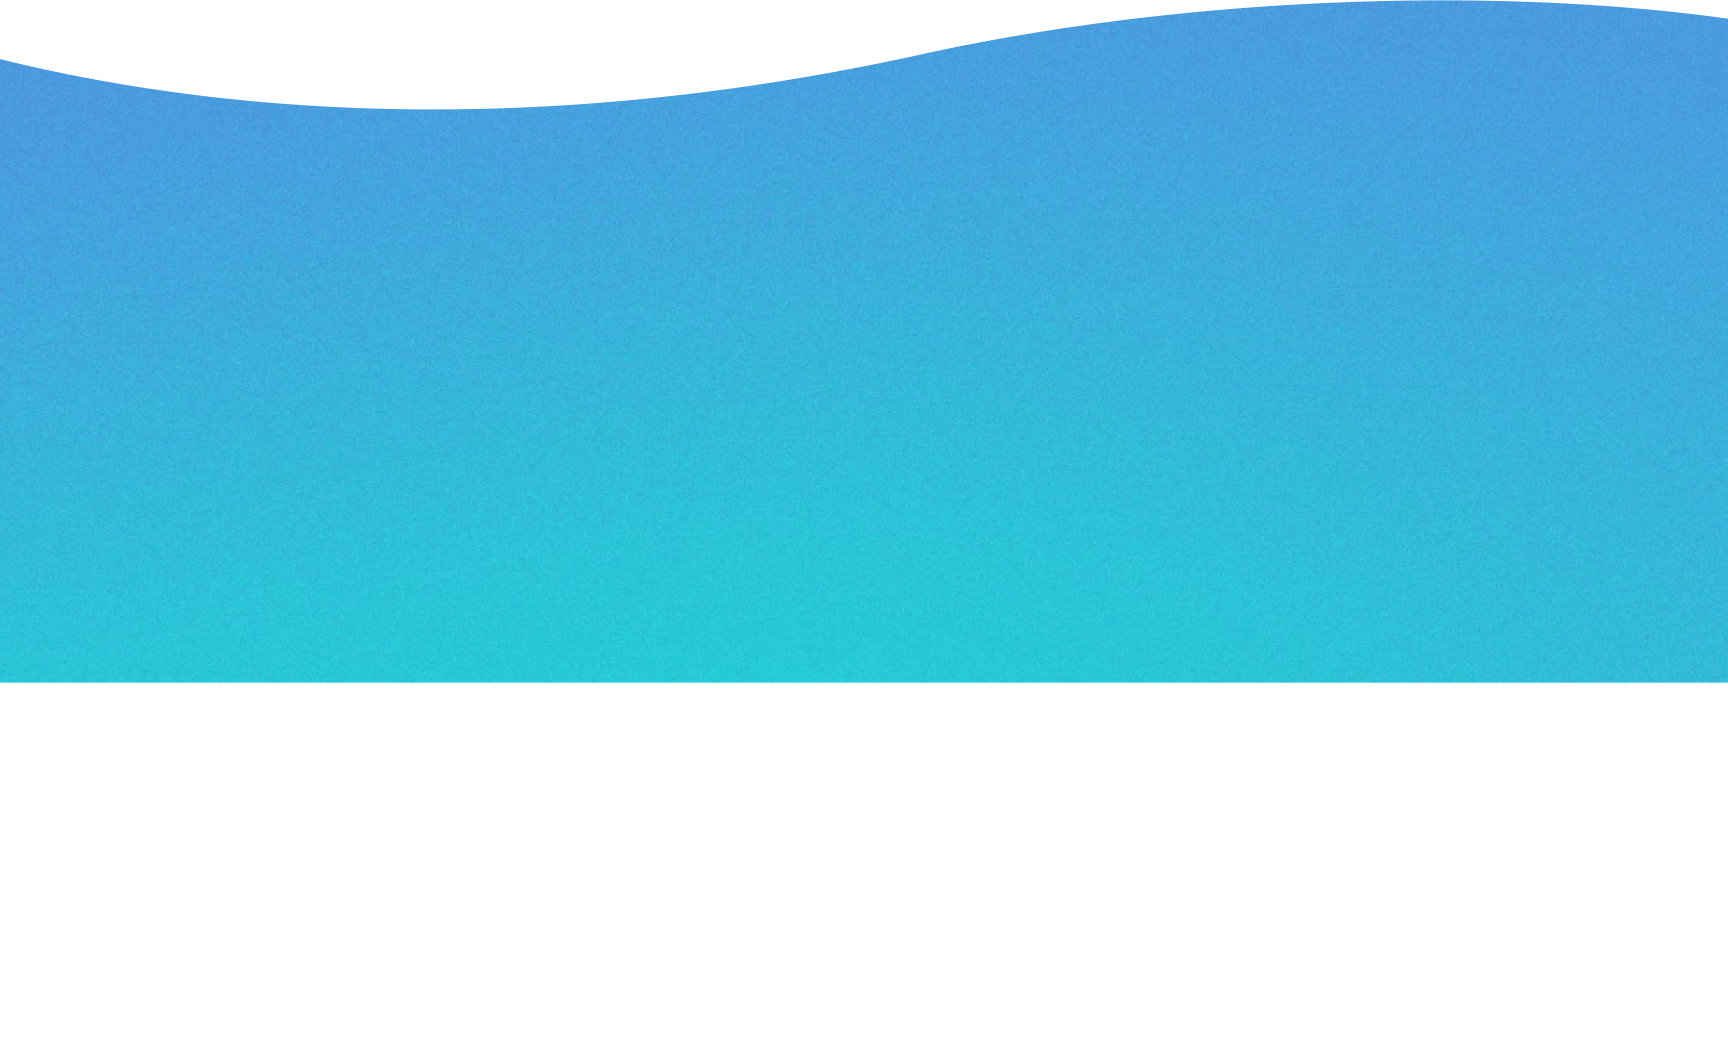
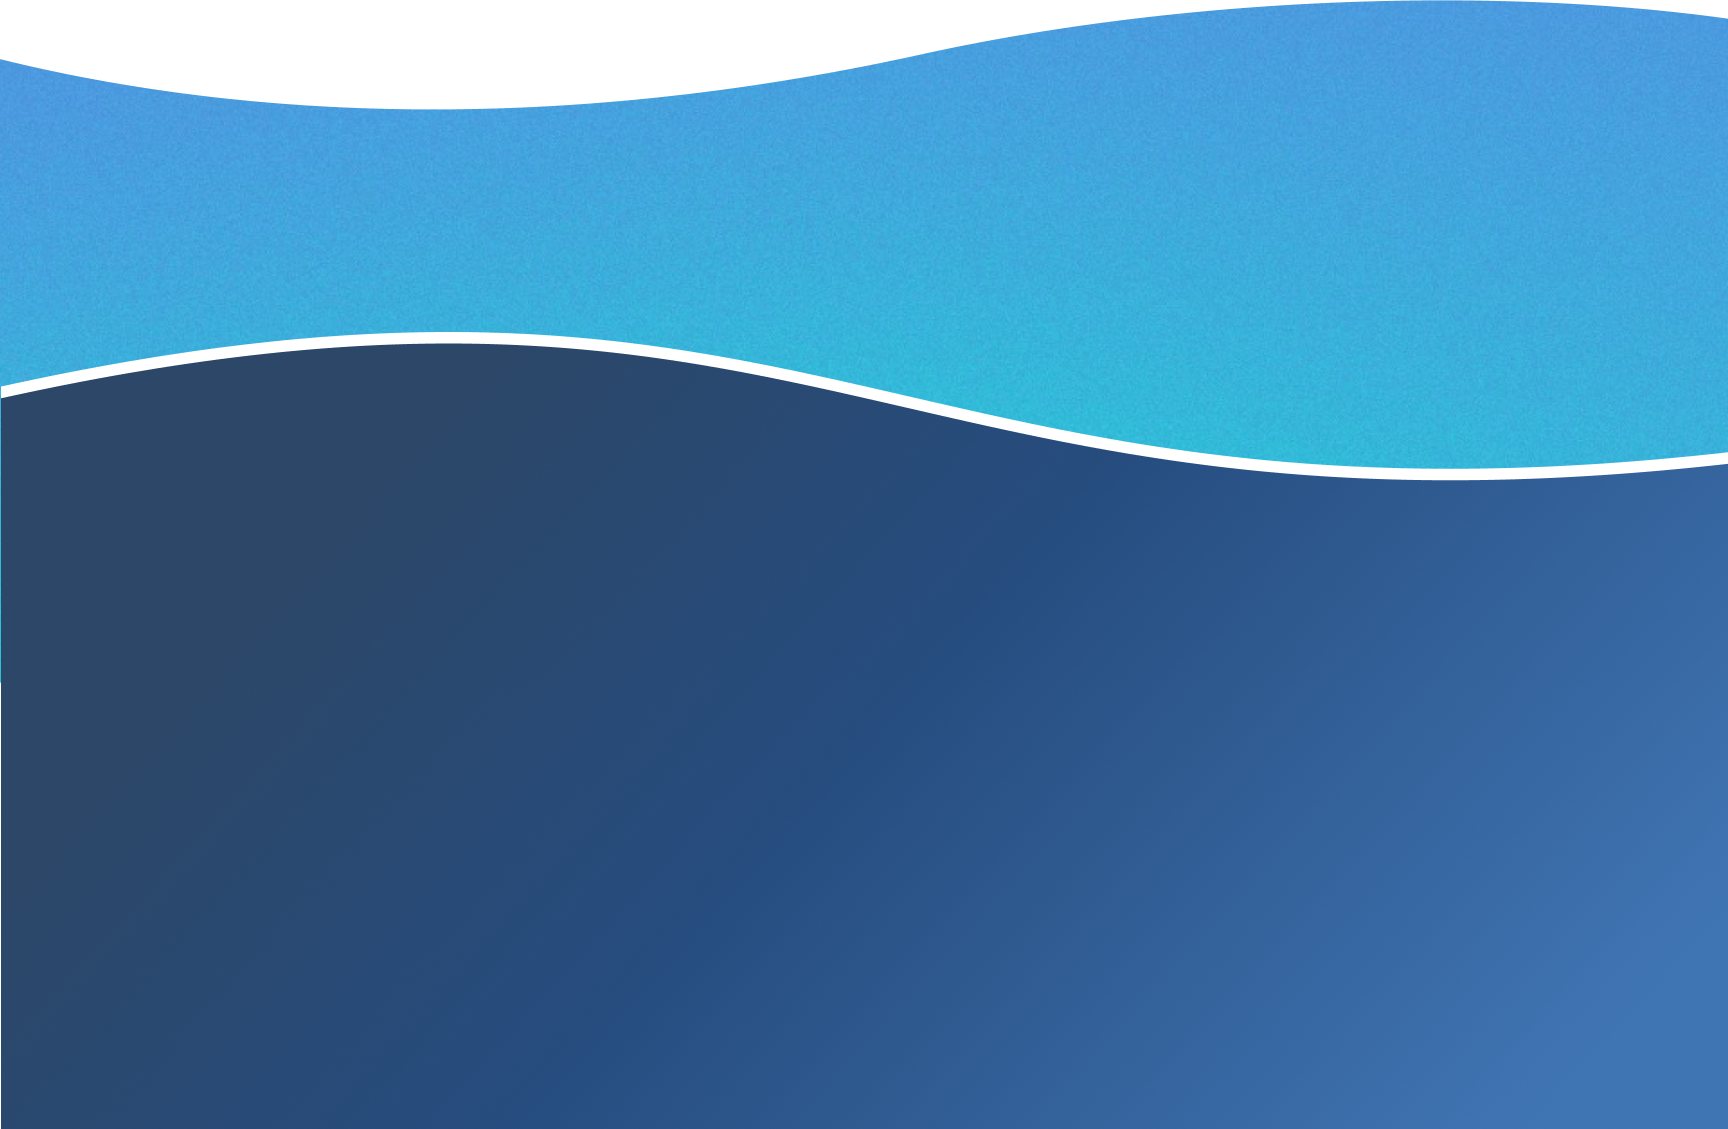
Finished last section (form section) responsive design

diff --git a/components/FormSection.vue b/components/FormSection.vue
@@ -1,8 +1,40 @@
 <template>
-    <!-- <div class="relative bg-projectColors-lighter-blue z-10">
-        <img src="../images/contactForm.png" class="relative w-full">
-        <img src="../images/contactForm2.png" class="absolute bottom-10%neg w-full">
-        <div class="flex max-w-1078p w-full mt-189p ml-340.5p top-0 right-0 left-0 absolute z-20 bg-white form-radius">
+    <div class="background-form relative background-blue">
+        <div class="flex justify-center items-center xxxl:items-start xxxl:justify-start">
+            <div
+                class="form-radius max-w-1078p w-full bg-white mx-6 sm:mx-30p md:mx-20 xxxl:mx-0 mt-97p xl:mt-52 xxxl:mt-189p xxxl:ml-340.5p">
+                <div class="flex flex-col w-full pt-26.7p sm:pt-10 md:pt-64p px-5 md:px-12 lg:px-90p">
+                    <h2
+                        class="font-black text-projectColors-dark-gray text-blue-button-text sm:text-3xl md:text-5xl lg:text-ask pb-8 sm:pb-10 lg:pb-57p">
+                        Ask anything. </h2>
+                    <div class="flex flex-col xl:flex-row xl:pb-30p">
+                        <input type="text" placeholder="First name"
+                            class="pl-14p md:pl-26.7p w-full xl:mr-25.7p border mb-14p md:mb-30p xl:mb-0 text-color text-button-small md:text-input-text border-projectColors-input-border h-9 md:h-49p input-radius">
+                        <input type="text" placeholder="Last Name"
+                            class="pl-14p md:pl-26.7p w-full xl:mr-25.7p border text-color mb-14p md:mb-30p xl:mb-0 text-button-small md:text-input-text border-projectColors-input-border h-9 md:h-49p input-radius">
+                        <input type="text" placeholder="Email"
+                            class="pl-14p md:pl-26.7p w-full text-button-small md:text-input-text text-color mb-14p md:mb-30p xl:mb-0 border border-projectColors-input-border h-9 md:h-49p input-radius">
+                    </div>
+                    <div>
+                        <input type="text" placeholder="Topic"
+                            class="mb-14p md:mb-30p pl-14p md:pl-26.7p text-button-small md:text-input-text w-full text-color border border-projectColors-input-border h-9 md:h-49p input-radius">
+                        <input type="text" placeholder="Message"
+                            class="pl-14p md:pl-26.7p text-button-small md:text-input-text w-full text-color border message border-projectColors-input-border h-251p md:h-219p input-radius">
+                    </div>
+                    <button
+                        class="bg-projectColors-light-blue w-158.5p h-50p hidden md:block text-white font-bold text-input-text border-radius-class mt-30p mb-67p">Make
+                        contact</button>
+                    <button
+                        class="bg-projectColors-light-blue w-77p h-35p my-37p md:hidden text-white font-bold text-button-small border-radius-class-2">Send</button>
+                </div>
+            </div>
+        </div>
+        <div
+            class="mt-5 sm:mt-30p pb-58p lg:pb-0 xxxl:pb-73p flex justify-center xxxl:justify-start items-center xxxl:item-start mx-6 sm:mx-30p md:mx-20 xxxl:mx-0">
+            <div class="flex max-w-1078p h-88p xl:h-124p w-full xxxl:ml-340.5p bg-projectColors-dark-gray form-radius">
+            </div>
+        </div>
+        <!-- <div class="flex max-w-1078p w-full mt-189p ml-340.5p bg-white form-radius">
             <div class="flex flex-col w-full pt-64p px-90p pb-67p">
                 <h2 class="font-black text-projectColors-dark-gray text-ask pb-57p">Ask anything. </h2>
                 <div class="flex pb-30p">
@@ -26,15 +58,30 @@
         </div>
         <div class="flex max-w-1078p h-124p w-full ml-340.5p bottom-20px- right-0 left-0 absolute z-20 bg-projectColors-dark-gray form-radius">
 
-        </div>
-    </div> -->
-    <div>
-        fhbvgfh
+        </div> -->
     </div>
 </template>
 
 
 <style>
+@media(min-width: 392px) {
+    .background-form {
+        background-image: url("../images/contactForm.png");
+    }
+}
+
+@media(min-width: 1151px) {
+    .background-blue {
+        background-color: #EDF6FF;
+    }
+}
+
+@media(max-width: 391px) {
+    .background-form {
+        background-image: url("../images/smallForm.png");
+    }
+}
+
 .message::placeholder {
     position: absolute;
     top: 13.4px;
@@ -44,8 +91,16 @@
     color: #343A40;
 }
 
-.form-radius {
-    border-radius: 26.7px;
+@media(min-width: 900px) {
+    .form-radius {
+        border-radius: 26.7px;
+    }
+}
+
+@media(max-width: 899px) {
+    .form-radius {
+        border-radius: 16px;
+    }
 }
 
 .input-radius {

diff --git a/components/LagoonBlueSection.vue b/components/LagoonBlueSection.vue
@@ -46,7 +46,7 @@
         </div>
         <div class="relative show-section url-image bg-gradient-small">
             <img src="../images/flow.png" class="w-full relative sm:hidden">
-            <div class="hide-line absolute right-0 bg-projectColors-dark-gray w-12" style="height: 1.5px; top:4.8%"></div>
+            <div class="hide-line absolute right-0 bg-projectColors-dark-gray w-12" style="height: 2px; top:4.8%"></div>
             <div class="flex justify-center sm:mx-5 absolute top-0 bottom-0 left-0 right-0 sm:relative">
                 <div
                     class="pt-30p sm:pt-24 flex flex-col sm:items-center w-265p sm:max-w-640p sm:w-full sm:mx-10 pb-100p sm:pb-10">
@@ -56,7 +56,7 @@
                             Estimation</h2>
                     </div>
                     <h2
-                        class="text-projectColors-dark-gray font-black pt-85p text-discovery sm:text-7xl pb-9 sm:pb-14  sm:text-center w-282p sm:w-fullsm:text-center">
+                        class="text-projectColors-dark-gray font-black pt-85p text-discovery sm:text-7xl pb-9 sm:pb-14  sm:text-center w-282p sm:w-full">
                         Estimation summary</h2>
                     <p class="text-projectColors-dark-gray text-description-small sm:text-xl pb-54p">Lorem ipsum dolor sit
                         amet. Sit

diff --git a/components/HeroSection.vue b/components/HeroSection.vue
@@ -69,9 +69,18 @@ export default {
     object-fit: cover;
 }
 
-body {
-    background: linear-gradient(152.84deg, #A4C1E2 -1.11%, rgba(255, 255, 255, 0) 39.85%);
-    overflow-x: hidden;
+@media(max-width:900px) {
+    body {
+        background: linear-gradient(150deg, #A4C1E2 -0.11%, rgba(255, 255, 255, 0) 6.55%);
+        overflow-x: hidden;
+    }
+}
+
+@media(min-width:901px) {
+    body {
+        background: linear-gradient(145deg, #A4C1E2 -0.11%, rgba(255, 255, 255, 0) 15%);
+        box-shadow: 0px 55px 77px rgba(0, 0, 0, 0.3);
+    }
 }
 
 @media(min-width: 500px) {
@@ -123,15 +132,15 @@ body {
     }
 }
 
- @media (max-width: 389px) {
+@media (max-width: 389px) {
     .padding-smaller {
         padding-top: 50px;
     }
- }
+}
 
- @media (min-width: 395px) and (max-width: 600px) {
+@media (min-width: 395px) and (max-width: 600px) {
     .padding-smaller {
         padding-top: 50px;
     }
- }
+}
 </style>

diff --git a/components/GraySection.vue b/components/GraySection.vue
@@ -2,7 +2,7 @@
     <div class="bg-projectColors-light-gray relative">
         <div class="xl:overflow-y-hidden">
             <div class="relative bg-custom-blue blue-pattern-bg xl:hidden">
-                <div class="hide-line absolute right-0 bg-white w-12" style="height: 1.5px; top:5.3%"></div>
+                <div class="hide-line absolute right-0 bg-white w-12" style="height: 2px; top:5.3%"></div>
                 <div class="flex justify-center sm:mx-5">
                     <div
                         class="pt-30p sm:pt-24 flex flex-col sm:items-center w-265p sm:max-w-640p sm:w-full sm:mx-10 pb-52p sm:pb-10">

diff --git a/components/GradientSection.vue b/components/GradientSection.vue
@@ -40,7 +40,7 @@
             </h2>
         </div>
         <div class="show-section">
-            <div class="hide-line absolute right-0 bg-projectColors-dark-gray w-16" style="height: 1.5px; top: 4.8%"></div>
+            <div class="hide-line absolute right-0 bg-projectColors-dark-gray w-16" style="height: 2px; top: 4.8%"></div>
             <div class="flex justify-center sm:mx-5">
                 <div
                     class="pt-26.4p sm:pt-24 flex flex-col sm:items-center w-265p sm:max-w-640p sm:w-full sm:mx-10 pb-52p sm:pb-10">

diff --git a/tailwind.config.js b/tailwind.config.js
@@ -156,8 +156,16 @@ module.exports = {
         "500p": "31.25rem",
         "100p": "6.25rem",
         "71p": "4.438rem",
+        "14p": "0.875rem",
         "26.4p": "1.65rem",
         "10p": "0.625rem",
+        "251p": "15.688rem",
+        "77p": "4.813rem",
+        "37p": "2.313rem",
+        "97p": "6.063rem",
+        "73p": "4.563rem",
+        "88p": "5.5rem",
+        "58p": "3.625rem",
       },
     },
   },
